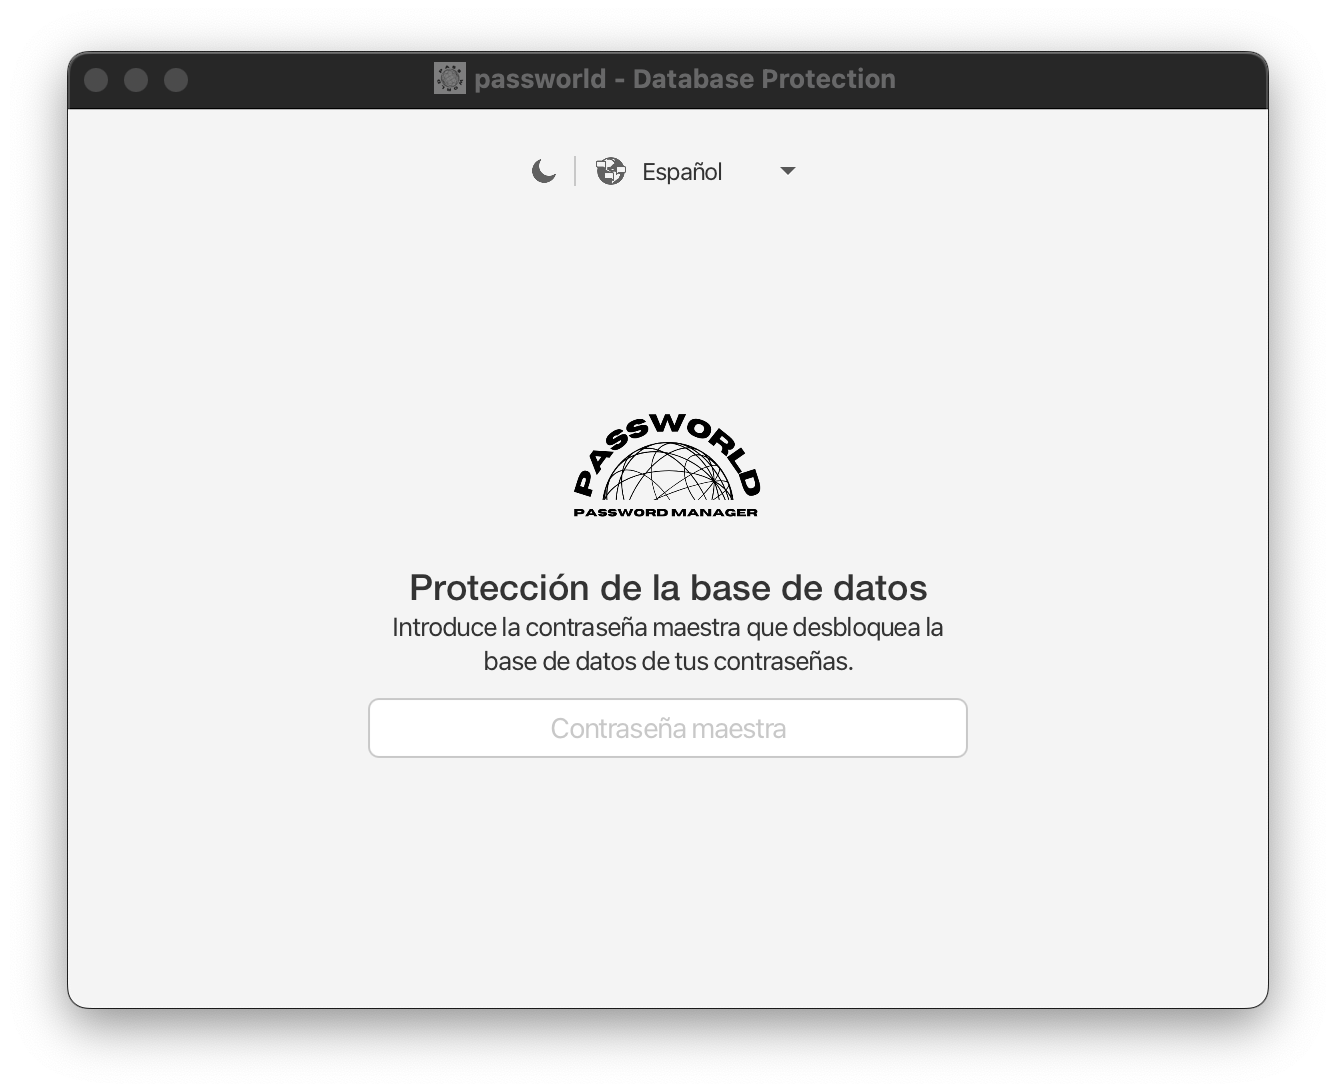
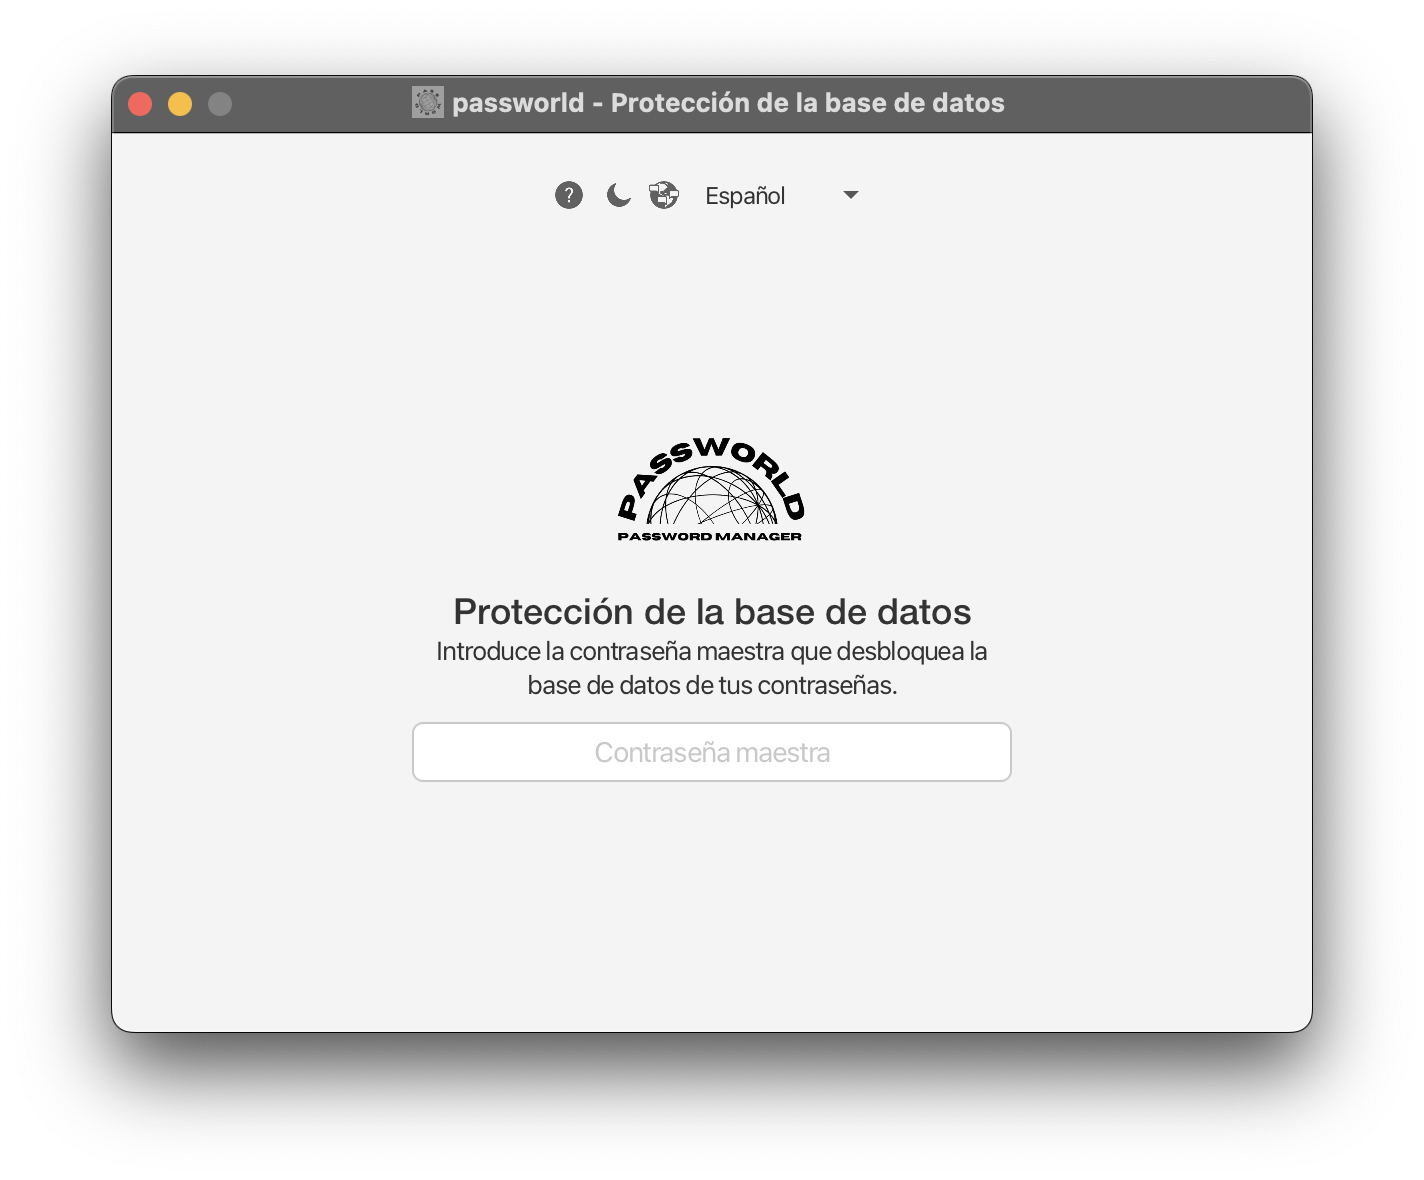
Update

Changed region(s): [[0.0307, 0.0311, 0.982, 0.9652], [0.3069, 0.3736, 0.7058, 0.685]]

diff --git a/help.html b/help.html
@@ -30,9 +30,10 @@
 
         <!-- Barra de navegación lateral -->
         <aside class="sidebar">
-                        <nav class="sidebar-nav">
+            <nav class="sidebar-nav">
                 <ul>
-                    <li><a href="#log-in">Iniciar Sesión</a></li>
+                    <li><a href="#first-steps">Primeros pasos</a></li>
+                    <li><a href="#log-in">Iniciar sesión</a></li>
                     <li><a href="#sign-up">Registrarse</a></li>
                     <hr>
                     <li><a href="#language">Cambiar idioma</a></li>
@@ -61,8 +62,20 @@
 
         <!-- Contenido principal -->
         <main class="manual-content">
+            <section id="first-steps">
+                <h1>Primeros pasos</h1>
+                <p>Al ejecutar la aplicación por primera vez tras su instalación, deberás iniciar sesión con una cuenta
+                    existente o registrar una nueva cuenta. <br>Para ello, debes seleccionar la opción con la que desees
+                    continuar. <br>Puedes cambiar entre secciones haciendo clic sobre ellas o con las flechas derecha e
+                    izquierda del teclado.</p>
+
+                <p>La proxima vez que ejecutes la aplicación no verás esta ventana.</p>
+            </section>
+
+            <hr>
+
             <section id="log-in">
-                <h1>Iniciar Sesión</h1>
+                <h1>Iniciar sesión</h1>
                 <p>Para iniciar sesión necesitarás conocer los siguientes datos:</p>
                 <ol>
                     <li>Correo electrónico con el que creaste tu cuenta</li>
@@ -94,6 +107,9 @@
                     de
                     Passworld en la mayoría de ventanas</p>
                 <p>Una vez desplegado, selecciona el idioma que desees y se aplicará automáticamente.</p>
+                <p>La primera vez que ejecutes la aplicación se cargará el idioma del sistema, o en su defecto, el
+                    Español.<br>La proxima vez que ejecutes la aplicación se cargará el idioma que seleccionaste la
+                    última vez</p>
                 <p>Ten en cuenta que el desplegable podría no aparecer en todas las ventanas de la aplicación.</p>
                 <img src="images/language-example.png" alt="Ejemplo cambio de idioma">
             </section>
@@ -102,11 +118,24 @@
 
             <section id="theme">
                 <h1>Cambiar tema</h1>
-                <p>Para cambiar el tema debes hacer clic sobre botón de luna o sol que encontrarás en la parte
+                <p>Para cambiar el tema debes hacer clic sobre el botón de luna o sol que encontrarás en la parte
+                    superior
+                    de Passworld en la mayoría de ventanas</p>
+                <p>La proxima vez que ejecutes la aplicación se cargará el tema que seleccionaste la
+                    última vez</p>
+                <p>Ten en cuenta que el botón podría no aparecer en todas las ventanas de la aplicación.</p>
+                <img src="images/theme-example.png" alt="Ejemplo cambio de tema">
+            </section>
+
+            <hr>
+
+            <section id="help">
+                <h1>Abrir la ayuda</h1>
+                <p>Para abrir la ayuda debes hacer clic sobre el botón de interrogación que encontrarás en la parte
                     superior
                     de Passworld en la mayoría de ventanas</p>
                 <p>Ten en cuenta que el botón podría no aparecer en todas las ventanas de la aplicación.</p>
-                <img src="images/theme-example.png" alt="Ejemplo cambio de tema">
+                <img src="images/help-example.png" alt="Ejemplo ayuda">
             </section>
 
             <hr>
@@ -118,7 +147,7 @@
                 <p>Si no recuerdas la contraseña, no podrás acceder a tus contraseñas almacenadas y deberás
                     contactar a
                     soporte.</p>
-                <img src="images/vault-example.png" alt="Ejemplo desbloqueo de baúl">
+                <img src="images/vault_example.png" alt="Ejemplo desbloqueo de baúl">
             </section>
 
             <hr>
@@ -153,7 +182,6 @@
                 <p>También podrás pulsar el la combinación de teclas CTRL+G en Windows/Linux o CMD+G en MacOS</p>
                 <img src="images/save-button-example.png"
                     alt="Ejemplo guardado de contraseña desde la ventana principal">
-                <br>
                 <p>A continuación, aparecerá un cuadro de diálogo para establecer algunos datos relacionados con la
                     contraseña:</p>
                 <ul>
@@ -165,11 +193,11 @@
                     <li>Contraseña (obligatorio): Podrás ver, modificar o regenerar la contraseña generada que vas a
                         guardar</li>
                 </ul>
+                <img src="images/save-data-example.png" alt="Ejemplo guardado de contraseña desde la ventana principal">
                 <p>Una vez establezcas los datos que quieras guardar junto a la contraseña, pulsa sobre el botón
                     "Guardar" para guardarla</p>
                 <p>Si no quieres guardar la contraseña, puedes pulsar el botón "Cancelar" para volver a la ventana
                     principal</p>
-                <img src="images/save-data-example.png" alt="Ejemplo guardado de contraseña desde la ventana principal">
             </section>
 
             <hr>
@@ -299,8 +327,7 @@
                     <li>URL comprometida: La URL ha sido expuesta en una brecha de seguridad o está relacionada con
                         actividades sospechosas y te recomendamos</li>
                 </ul>
-                <img src="images/issue-password-example.png"
-                    alt="Ejemplo de contraseña con problemas de seguridad">
+                <img src="images/issue-password-example.png" alt="Ejemplo de contraseña con problemas de seguridad">
                 <br>
                 <p>La contraseña aparece oculta por seguridad. Para mostrarla bastará con pulsar sobre ella. <br>Una vez
                     descubierta, podrás copiarla o regenerarla con los botones correspondientes.</p>
@@ -311,9 +338,9 @@
             <section id="delete-password">
                 <h1>Eliminar una contraseña</h1>
                 <p>Para eliminar una contraseña debes acceder a su información y pulsar sobre el botón 'Eliminar'<br>Se
-                    te pedirá confirmación antes de la eliminación permanente. <br>Una contraseña eliminada es irrecuperable.</p>
-                <img src="images/delete-password-example.png"
-                    alt="Ejemplo de eliminar contraseña">
+                    te pedirá confirmación antes de la eliminación permanente. <br>Una contraseña eliminada es
+                    irrecuperable.</p>
+                <img src="images/delete-password-example.png" alt="Ejemplo de eliminar contraseña">
             </section>
 
         </main>
